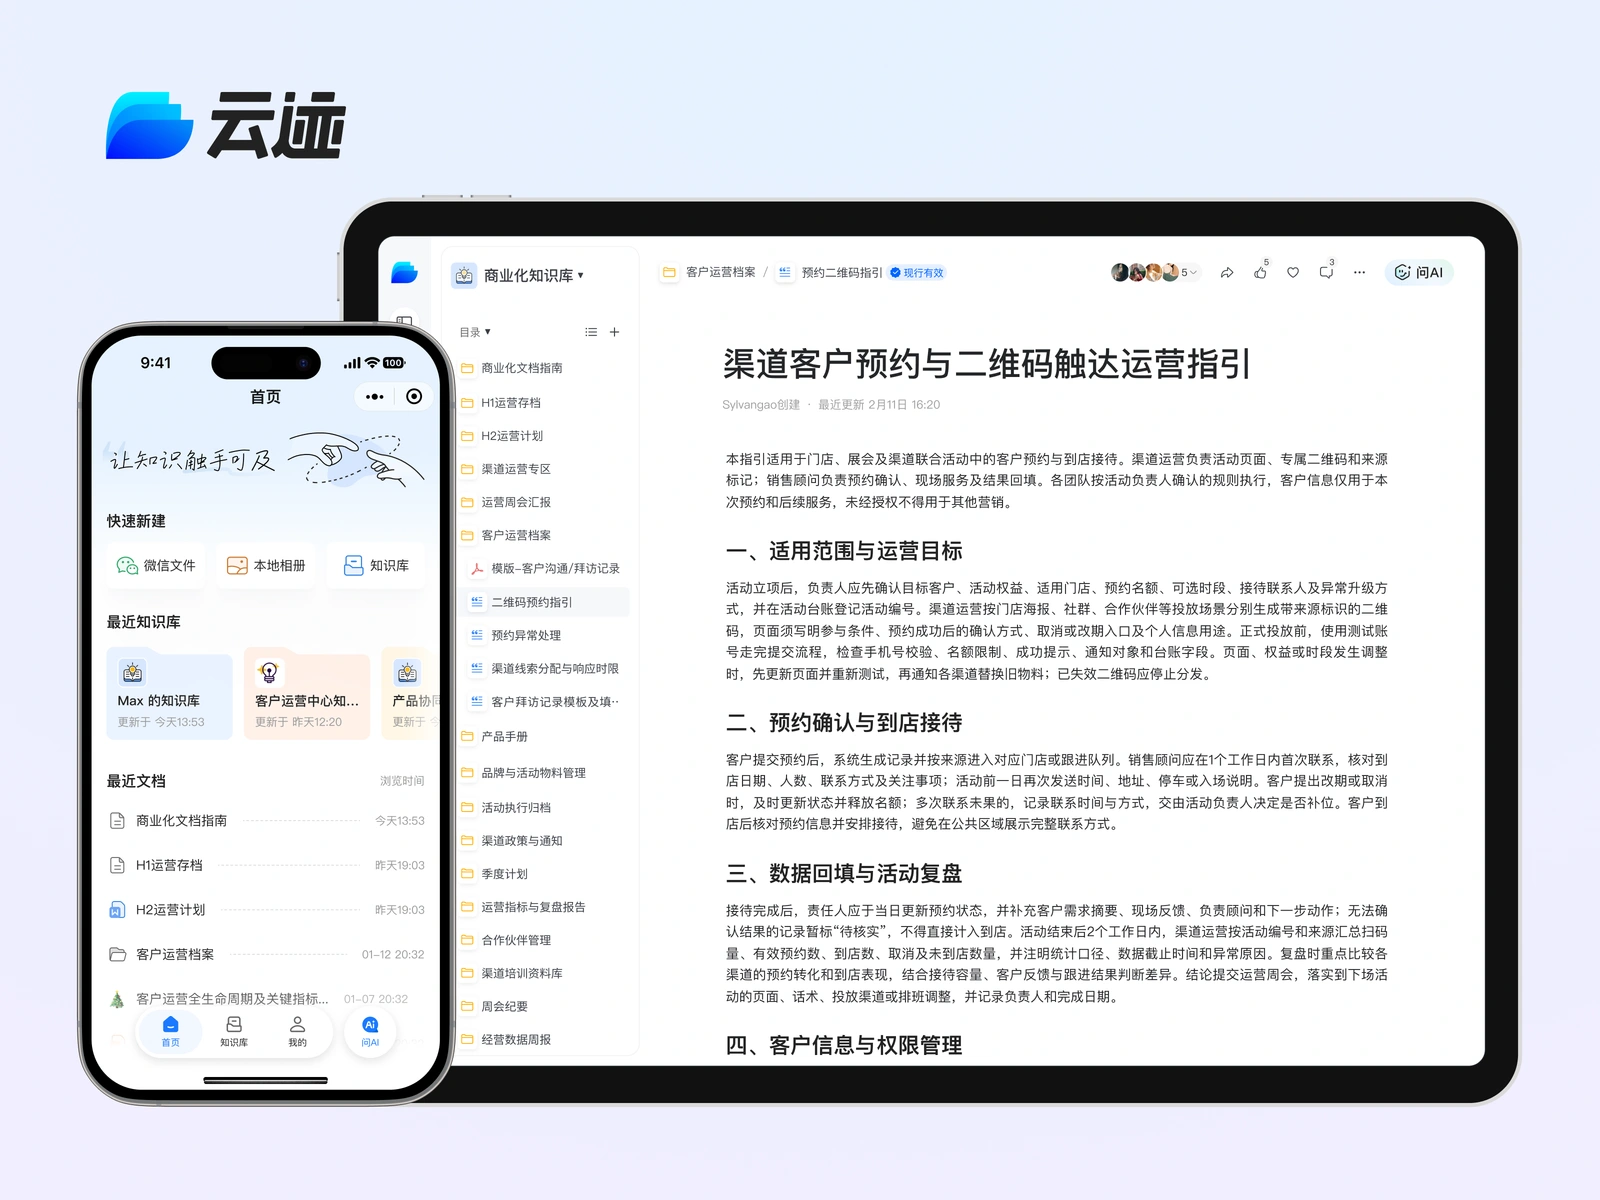
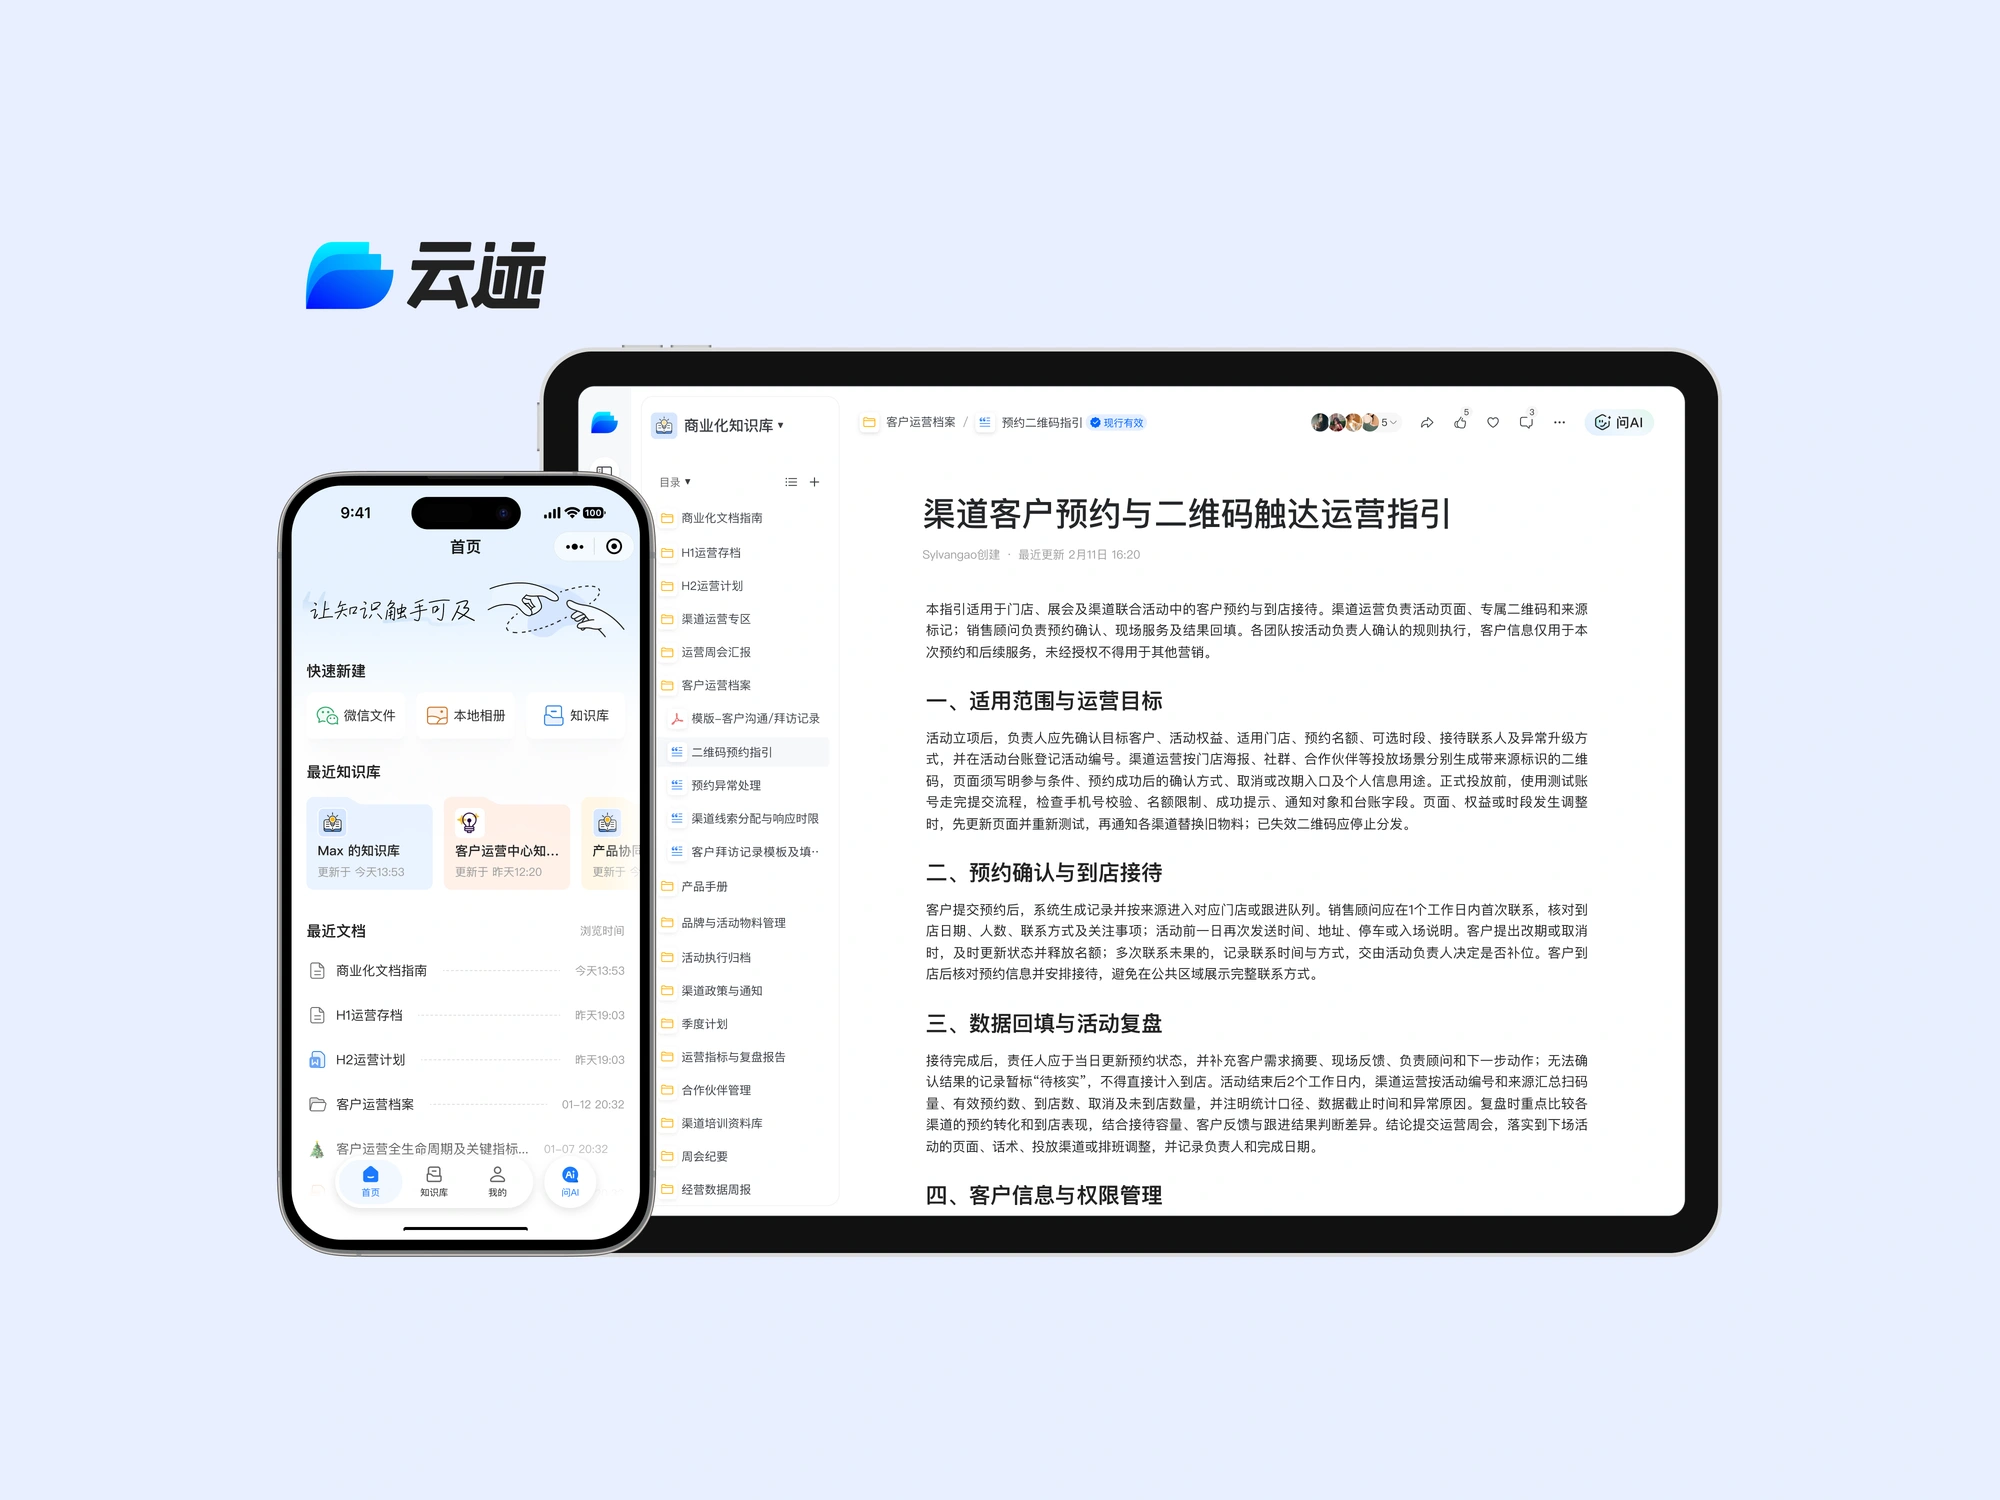
Tighten case study hero and refine project cover edges

Changed region(s): [[0.0312, 0.0617, 0.9688, 0.925]]

diff --git a/app/styles/interactions.css b/app/styles/interactions.css
@@ -4,7 +4,11 @@
   isolation: isolate;
 }
 .notched-project .portfolio-thumb {
-  clip-path: var(--project-clip-rest, inset(0));
+  /* The animated path is the single corner geometry. A native circular
+     border-radius additionally clipped its quadratic corners, leaving white
+     crescents between the glass and the SVG shadow's matching outline. */
+  border-radius: 0;
+  clip-path: var(--project-clip-rest, inset(0 round 38px));
   transition: clip-path 0.3s cubic-bezier(0.22, 1, 0.36, 1);
   border: 0 !important;
 }
@@ -435,10 +439,32 @@ html[data-preview-theme='dark'] .project-tag {
   }
 }
 
-/* Finished 4:3 cover compositions fill the card; transparent artwork retains
-   its original inset. Overscan keeps pointer parallax from exposing edges. */
+/* A 2000×1500 composition starts at a centered 1600×1200 crop (1.25×).
+   Keep the full composition anchored while the card tilts, so the complete
+   hover frame never exposes an empty strip at an image edge. */
 .notched-project .portfolio-cover-bleed {
   padding: 0;
   object-fit: cover;
-  transform: scale(1.04);
+  transform-origin: center;
+  transform: scale(1.25);
+  translate: none;
+  transition: transform 650ms cubic-bezier(0.22, 1, 0.36, 1);
+}
+@media (hover: hover) and (pointer: fine) {
+  .notched-project:hover .portfolio-cover-bleed {
+    transform: scale(1);
+  }
+}
+.notched-project:focus-visible .portfolio-cover-bleed {
+  transform: scale(1);
+}
+@media (hover: none) {
+  .notched-project .portfolio-cover-bleed {
+    transform: scale(1);
+  }
+}
+@media (prefers-reduced-motion: reduce) {
+  .notched-project .portfolio-cover-bleed {
+    transition: none;
+  }
 }

diff --git a/app/styles/case-study.css b/app/styles/case-study.css
@@ -1,5 +1,6 @@
 /* Yunji is scoped so long-form case layouts cannot alter the home or resume. */
 .yunji-case {
+  display: flow-root;
   position: relative;
   isolation: isolate;
   padding-bottom: 0;
@@ -13,7 +14,7 @@
   position: absolute;
   z-index: -1;
   pointer-events: none;
-  top: 30px;
+  top: 0;
   right: 0;
   width: min(1100px, 100%);
   height: 880px;
@@ -22,7 +23,7 @@
     radial-gradient(ellipse at 92% 52%, #bbddff66, transparent 65%);
 }
 .yunji-hero {
-  padding-top: 160px;
+  padding-top: 48px;
   padding-bottom: 52px;
 }
 .yunji-back {
@@ -31,7 +32,7 @@
   gap: 12px;
   color: #727278;
   font-size: 14px;
-  margin-bottom: 70px;
+  margin-bottom: 32px;
   transition: color 0.2s;
 }
 .yunji-back:hover {
@@ -345,11 +346,11 @@
     width: calc(100% - 40px);
   }
   .yunji-hero {
-    padding-top: 120px;
+    padding-top: 36px;
     padding-bottom: 32px;
   }
   .yunji-back {
-    margin-bottom: 48px;
+    margin-bottom: 28px;
     font-size: 13px;
   }
   .yunji-hero h1 {
